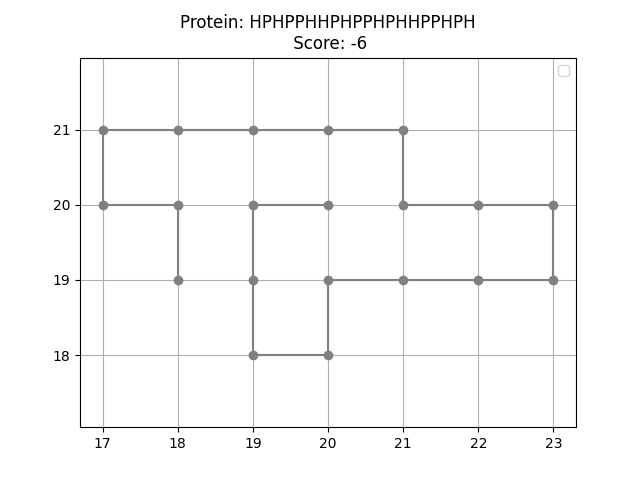
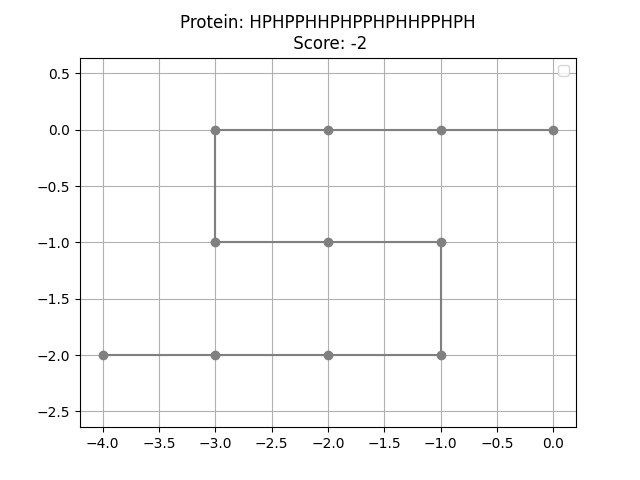
new recursion without deepcopy

diff --git a/OOP_ijwit_hattum.py b/OOP_ijwit_hattum.py
@@ -3,182 +3,68 @@ from copy import deepcopy
 
 from Jeroen.classes.visualisation_OOP import Visualisation
 
-class Grid:
-    def  __init__(self, size):
-        actualgridsize = 2*size + 1
-        self.content = [ [ (-1,'_') for i in range(actualgridsize) ] for j in range(actualgridsize) ]
-        self.currentPlace = (size,size)
-        self.totalMoves = 0
-        
+from classes_hattum.protein import Protein
+from classes_hattum.grid import Grid
 
-    def printGrid(self):
-        for row in self.content:
-            print_list = []
-            for tuble in row:
-                print_list.append(str(tuble[0])+tuble[1])
-            print(print_list)
-        print()
-
-    def score(self):
-        score = 0
-        for x in range(len(self.content)-1):
-            for y in range(len(self.content)-1):
-                if self.content[x][y][1] == self.content[x+1][y][1] == 'H':
-                    if self.content[x][y][0] != self.content[x+1][y][0]+1 and self.content[x][y][0] != self.content[x+1][y][0]-1:
-                            score = score-1
-                if self.content[x][y][1] == self.content[x][y+1][1] == 'H':
-                    if self.content[x][y][0] != self.content[x][y+1][0]+1 and self.content[x][y][0] != self.content[x][y+1][0]-1:
-                        score = score-1
-
-        return score
-
-    def checkPossibleMoves(self):
-        possiblemoves = []
-        if self.totalMoves == 0:
-            possiblemoves.append((self.currentPlace[0],self.currentPlace[1]))         
-        else:
-            if self.content[self.currentPlace[0]][self.currentPlace[1]+1][1] == '_':
-                possiblemoves.append((self.currentPlace[0],self.currentPlace[1]+1))
-            if self.content[self.currentPlace[0]][self.currentPlace[1]-1][1] == '_':
-                possiblemoves.append((self.currentPlace[0],self.currentPlace[1]-1))
-            if self.content[self.currentPlace[0]+1][self.currentPlace[1]][1] == '_':
-                possiblemoves.append((self.currentPlace[0]+1,self.currentPlace[1]))
-            if self.content[self.currentPlace[0]-1][self.currentPlace[1]][1] == '_':
-                possiblemoves.append((self.currentPlace[0]-1,self.currentPlace[1]))    
-        return possiblemoves
-
-    def performMove(self, move, letter):
-        self.content[move[0]][move[1]] = (self.totalMoves, letter)
-        self.currentPlace = (move[0], move[1])
-        self.totalMoves = self.totalMoves + 1
-        
-
-
-class Protein:
-    def __init__(self, code):
-        self.code = code
-        self.length = len(code)
-
-    def pop_first_char(self):
-        letter = self.code[0]
-        self.code = self.code[1:]
-        self.length = len(self.code)
-        return letter
-## HPHPPHHPHPPHPHHPPHPH
-moveList = []
-protein = Protein("HPHPPHHPHP")
-grid = Grid(protein.length)
-moveList.append(grid.checkPossibleMoves()[0])
-grid.performMove(grid.checkPossibleMoves()[0], protein.pop_first_char())
-# while protein.length > 0:
-#     moves = grid.checkPossibleMoves()
-#     letter = protein.pop_first_char()
-#     grid.performMove(random.choice(moves),letter)
-
-
-
-
+# HPHPPHHPHPPHPHHPPHPH
+allMoves = []
+protein = Protein("HPHPPHHPHPPHPHHPPHPH")
+length = protein.length
+grid = Grid(length)
 minimalScore = 0
 minimalGrid = None
 minimalPerformedMove = None
 recursionAmount = 0
-
-
-def recursion(grid, protein, depth, firstMove):
+   
+def recursion_01(grid, allMoves, depth, length, firstMove, numberOfPerformedMoves):
     """This is a recursive function
     to find all possible folds"""
 
-    global minimalScore, minimalGrid, minimalPerformedMove, recursionAmount
+    global minimalScore, minimalGrid, recursionAmount, minimalPerformedMove
+
     if (recursionAmount % 10000 )== 0:
         print(recursionAmount)
     recursionAmount = recursionAmount+1
 
-    if depth == 99 or protein.length == 0:
-        #depth = 0
+    if depth == 10 or len(allMoves) == protein.length:
+        
+        
         S = grid.score()
-        # print("score = "+ str(S)+ "minimal= "+ str(minimalScore))
+        
+        
         if S <= minimalScore and (len(grid.checkPossibleMoves()) > 0 or protein.length == 0):
+            
             minimalScore = S
             minimalGrid = grid
             minimalPerformedMove = firstMove
-            # print(minimalScore)
-            # grid.printGrid()
-         
-    else:
-        moves = grid.checkPossibleMoves()
-        
-        for move in moves:
-
-            gridCopy = deepcopy(grid)
-            proteinCopy = deepcopy(protein)
-            letter = proteinCopy.pop_first_char()
-            gridCopy.performMove(move,letter)
-            if depth == 0:
-                recursion(gridCopy,proteinCopy,depth+1, move)
-            else:
-                recursion(gridCopy,proteinCopy,depth+1, firstMove)
-
-
-while protein.length > 0:
-
-    recursion(grid,protein,0,None)
-    moveList.append(minimalPerformedMove)
-    
-    
-    grid.performMove(minimalPerformedMove, protein.pop_first_char())
-    minimalPerformedMove = None
-    
-
-    print(protein.length)
-
-print(f'move list: {moveList}')
-visualisation = Visualisation("HPHPPHHPHPPHPHHPPHPH", grid.score(), moveList)
-visualisation.plot()
-
-print(moveList)
-
-print(f"grid scor: {grid.score()}")
-grid.printGrid()
-
-######### 2.0
-
-allMoves = []
-protein = Protein("HPHPPHHPHP")
-grid = Grid(10)
-minimalScore = 0
-minimalGrid = None
-minimalPerformedMove = None
-   
-def recursion_01(grid, allMoves, depth):
-    """This is a recursive function
-    to find all possible folds"""
-
-    global minimalScore, minimalGrid
-    
-
-    if depth == 10 or protein.length == 0:
-        S = grid.score()
-        if S <= minimalScore and (len(grid.checkPossibleMoves()) > 0 or protein.length == 0):
-            minimalScore = S
-            minimalGrid = grid
             
-         
     else:
-        
         moves = grid.checkPossibleMoves()
         for move in moves:
-            allMoves = allMoves[:depth]
+            allMoves = allMoves[:(depth+(numberOfPerformedMoves))]
             allMoves.append(move)
-            grid = Grid(10)
+            grid = Grid(length)
             for allMove in allMoves:
+                
                 grid.performMove(allMove, protein.code[grid.totalMoves])
             
+            if depth == 0:
+                recursion_01(grid, allMoves, depth+1, length, move, numberOfPerformedMoves)
+            else:
+                recursion_01(grid, allMoves, depth+1, length, firstMove, numberOfPerformedMoves)
             
-            recursion_01(grid, allMoves, depth+1)
 
-    
+letterPos = 0
+while protein.length > letterPos:
+    recursion_01(grid, allMoves, 0, length, None, letterPos)
+    allMoves.append(minimalPerformedMove)
+    grid.performMove(minimalPerformedMove, protein.code[letterPos])
+    minimalPerformedMove = None
+    minimalScore = 0
+    letterPos = letterPos +1
+    print(letterPos)
 
-recursion_01(grid, allMoves, 0)
-
-print(minimalScore)
-minimalGrid.printGrid()
+print(grid.score())
+grid.printGrid()
+# print(minimalScore)
+# grid.printGrid()

diff --git a/classes_hattum/grid.py b/classes_hattum/grid.py
@@ -1,0 +1,49 @@
+class Grid:
+    def  __init__(self, size):
+        actualgridsize = 2*size + 2
+        self.content = [ [ (-1,'_') for i in range(actualgridsize) ] for j in range(actualgridsize) ]
+        self.currentPlace = (size,size)
+        self.totalMoves = 0
+        
+
+    def printGrid(self):
+        for row in self.content:
+            print_list = []
+            for tuble in row:
+                print_list.append(str(tuble[0])+tuble[1])
+            print(print_list)
+        print()
+
+    def score(self):
+        score = 0
+        for x in range(len(self.content)-1):
+            for y in range(len(self.content)-1):
+                if self.content[x][y][1] == self.content[x+1][y][1] == 'H':
+                    if self.content[x][y][0] != self.content[x+1][y][0]+1 and self.content[x][y][0] != self.content[x+1][y][0]-1:
+                            score = score-1
+                if self.content[x][y][1] == self.content[x][y+1][1] == 'H':
+                    if self.content[x][y][0] != self.content[x][y+1][0]+1 and self.content[x][y][0] != self.content[x][y+1][0]-1:
+                        score = score-1
+
+        return score
+
+    def checkPossibleMoves(self):
+        possiblemoves = []
+        if self.totalMoves == 0:
+            possiblemoves.append((self.currentPlace[0],self.currentPlace[1]))         
+        else:
+            if self.content[self.currentPlace[0]][self.currentPlace[1]+1][1] == '_':
+                possiblemoves.append((self.currentPlace[0],self.currentPlace[1]+1))
+            if self.content[self.currentPlace[0]][self.currentPlace[1]-1][1] == '_':
+                possiblemoves.append((self.currentPlace[0],self.currentPlace[1]-1))
+            if self.content[self.currentPlace[0]+1][self.currentPlace[1]][1] == '_':
+                possiblemoves.append((self.currentPlace[0]+1,self.currentPlace[1]))
+            if self.content[self.currentPlace[0]-1][self.currentPlace[1]][1] == '_':
+                possiblemoves.append((self.currentPlace[0]-1,self.currentPlace[1]))    
+        return possiblemoves
+
+    def performMove(self, move, letter):
+        self.content[move[0]][move[1]] = (self.totalMoves, letter)
+        self.currentPlace = (move[0], move[1])
+        self.totalMoves = self.totalMoves + 1
+        

diff --git a/old_greedy_lookahead_hattum.py b/old_greedy_lookahead_hattum.py
@@ -1,0 +1,73 @@
+from copy import deepcopy
+from classes_hattum.protein import Protein
+from classes_hattum.grid import Grid
+
+from Jeroen.classes.visualisation_OOP import Visualisation
+
+
+## HPHPPHHPHPPHPHHPPHPH
+
+moveList = []
+protein = Protein("HPHPPHHPHPP")
+length = protein.length
+grid = Grid(length)
+minimalScore = 0
+minimalGrid = None
+minimalPerformedMove = None
+recursionAmount = 0
+
+
+def recursion(grid, protein, depth, firstMove):
+    """This is a recursive function
+    to find all possible folds"""
+
+    global minimalScore, minimalGrid, minimalPerformedMove, recursionAmount
+    if (recursionAmount % 10000 )== 0:
+        print(recursionAmount)
+    recursionAmount = recursionAmount+1
+
+    if depth == 3 or protein.length == 0:
+        S = grid.score()
+        if S <= minimalScore and (len(grid.checkPossibleMoves()) > 0 or protein.length == 0):
+            minimalScore = S
+            minimalGrid = grid
+            minimalPerformedMove = firstMove
+         
+        
+    else:
+        moves = grid.checkPossibleMoves()
+        
+        for move in moves:
+
+            gridCopy = deepcopy(grid)
+            proteinCopy = deepcopy(protein)
+            letter = proteinCopy.pop_first_char()
+            gridCopy.performMove(move,letter)
+            if depth == 0:
+                recursion(gridCopy,proteinCopy,depth+1, move)
+            else:
+                recursion(gridCopy,proteinCopy,depth+1, firstMove)
+
+
+while protein.length > 0:
+
+    recursion(grid,protein,0,None)
+    moveList.append(minimalPerformedMove)
+    
+    
+    grid.performMove(minimalPerformedMove, protein.pop_first_char())
+    minimalPerformedMove = None
+    
+
+    print(protein.length)
+
+print(f'move list: {moveList}')
+moveList = [(a-length,b-length) for a,b in moveList]
+print(moveList)
+visualisation = Visualisation("HPHPPHHPHPPHPHHPPHPH", grid.score(), moveList)
+visualisation.plot()
+
+print(moveList)
+
+print(f"grid scor: {grid.score()}")
+grid.printGrid()

diff --git a/random_valid.py b/random_valid.py
@@ -1,0 +1,25 @@
+from classes_hattum.protein import Protein
+from classes_hattum.grid import Grid
+import random
+
+x = 0
+globalscore = 1
+globalgrid = None
+
+while x < 10000:
+    protein = Protein("HPHPPHHPH")
+    grid = Grid(protein.length)
+    grid.performMove(grid.checkPossibleMoves()[0], protein.pop_first_char())
+    while protein.length > 0:
+        moves = grid.checkPossibleMoves()
+        if len(moves) == 0:
+            break
+        letter = protein.pop_first_char()
+        grid.performMove(random.choice(moves),letter)
+    if grid.score() < globalscore:
+        print(grid.score())
+        globalscore = grid.score()
+        globalgrid = grid
+        globalgrid.printGrid()
+    x = x+1
+

diff --git a/classes_hattum/protein.py b/classes_hattum/protein.py
@@ -1,0 +1,10 @@
+class Protein:
+    def __init__(self, code):
+        self.code = code
+        self.length = len(code)
+
+    def pop_first_char(self):
+        letter = self.code[0]
+        self.code = self.code[1:]
+        self.length = len(self.code)
+        return letter
